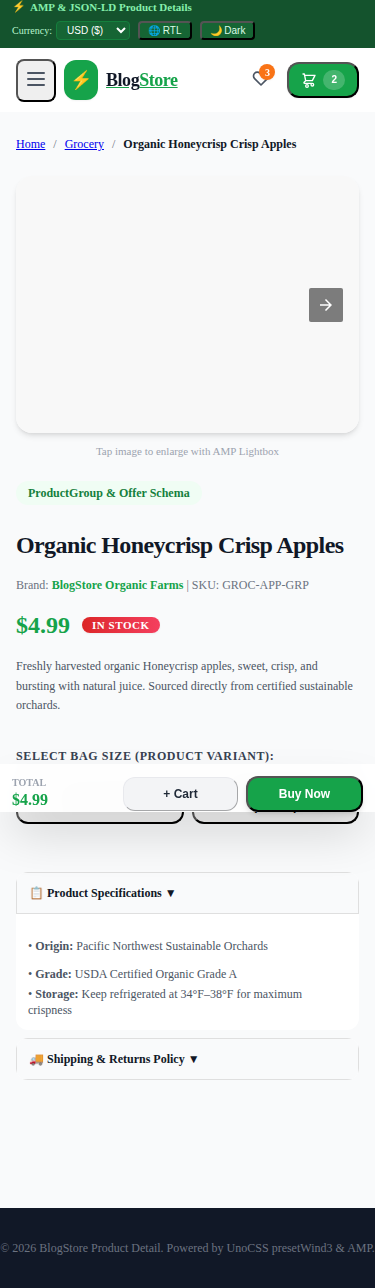
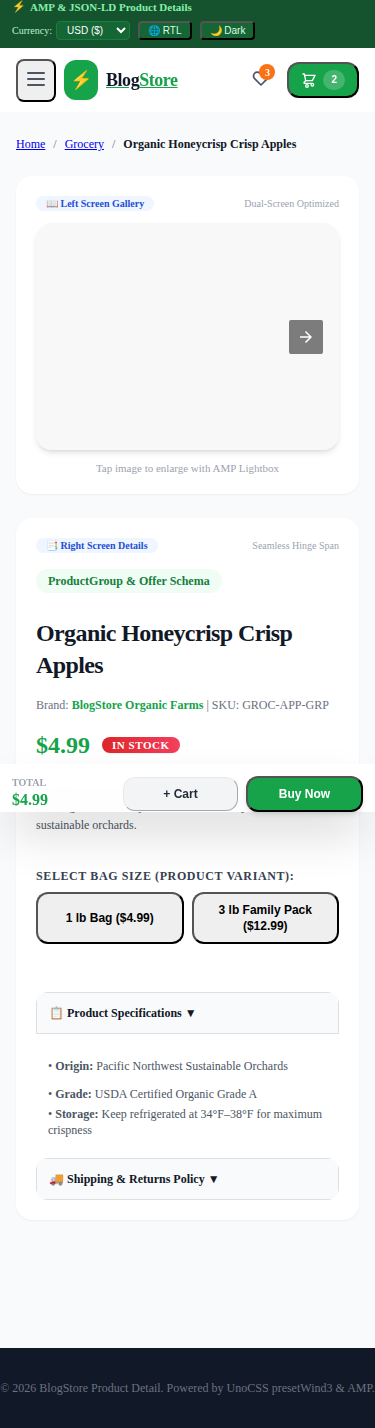
feat: enhance foldable device layouts and CSS styles across AMP store
- Add custom UnoCSS rules and shortcuts for dual-screen foldable viewports (`fold-split-grid`, `fold-pane`, `fold-badge`, `foldable-gap`)
- Enhance product detail and store pages with dual-pane split rendering and hinge gap handling
- Re-compile inline CSS via `scripts/build-css.js` and verify 100% AMP validation compliance
- Perform Playwright visual verification across desktop, mobile, and foldable viewports

diff --git a/product-detail.html b/product-detail.html
@@ -66,18 +66,29 @@
 *,::before,::after{--un-rotate:0;--un-rotate-x:0;--un-rotate-y:0;--un-rotate-z:0;--un-scale-x:1;--un-scale-y:1;--un-scale-z:1;--un-skew-x:0;--un-skew-y:0;--un-translate-x:0;--un-translate-y:0;--un-translate-z:0;--un-pan-x: ;--un-pan-y: ;--un-pinch-zoom: ;--un-scroll-snap-strictness:proximity;--un-ordinal: ;--un-slashed-zero: ;--un-numeric-figure: ;--un-numeric-spacing: ;--un-numeric-fraction: ;--un-border-spacing-x:0;--un-border-spacing-y:0;--un-ring-offset-shadow:0 0 rgb(0 0 0 / 0);--un-ring-shadow:0 0 rgb(0 0 0 / 0);--un-shadow-inset: ;--un-shadow:0 0 rgb(0 0 0 / 0);--un-ring-inset: ;--un-ring-offset-width:0px;--un-ring-offset-color:#fff;--un-ring-width:0px;--un-ring-color:rgb(147 197 253 / 0.5);--un-blur: ;--un-brightness: ;--un-contrast: ;--un-drop-shadow: ;--un-grayscale: ;--un-hue-rotate: ;--un-invert: ;--un-saturate: ;--un-sepia: ;--un-backdrop-blur: ;--un-backdrop-brightness: ;--un-backdrop-contrast: ;--un-backdrop-grayscale: ;--un-backdrop-hue-rotate: ;--un-backdrop-invert: ;--un-backdrop-opacity: ;--un-backdrop-saturate: ;--un-backdrop-sepia: ;}::backdrop{--un-rotate:0;--un-rotate-x:0;--un-rotate-y:0;--un-rotate-z:0;--un-scale-x:1;--un-scale-y:1;--un-scale-z:1;--un-skew-x:0;--un-skew-y:0;--un-translate-x:0;--un-translate-y:0;--un-translate-z:0;--un-pan-x: ;--un-pan-y: ;--un-pinch-zoom: ;--un-scroll-snap-strictness:proximity;--un-ordinal: ;--un-slashed-zero: ;--un-numeric-figure: ;--un-numeric-spacing: ;--un-numeric-fraction: ;--un-border-spacing-x:0;--un-border-spacing-y:0;--un-ring-offset-shadow:0 0 rgb(0 0 0 / 0);--un-ring-shadow:0 0 rgb(0 0 0 / 0);--un-shadow-inset: ;--un-shadow:0 0 rgb(0 0 0 / 0);--un-ring-inset: ;--un-ring-offset-width:0px;--un-ring-offset-color:#fff;--un-ring-width:0px;--un-ring-color:rgb(147 197 253 / 0.5);--un-blur: ;--un-brightness: ;--un-contrast: ;--un-drop-shadow: ;--un-grayscale: ;--un-hue-rotate: ;--un-invert: ;--un-saturate: ;--un-sepia: ;--un-backdrop-blur: ;--un-backdrop-brightness: ;--un-backdrop-contrast: ;--un-backdrop-grayscale: ;--un-backdrop-hue-rotate: ;--un-backdrop-invert: ;--un-backdrop-opacity: ;--un-backdrop-saturate: ;--un-backdrop-sepia: ;}
 /* layer: shortcuts */
 .glass-header{position:sticky;top:0;z-index:40;border-bottom-width:1px;border-color:rgb(229 231 235 / 0.6);background-color:rgb(255 255 255 / 0.9);--un-backdrop-blur:blur(12px);-webkit-backdrop-filter:var(--un-backdrop-blur) var(--un-backdrop-brightness) var(--un-backdrop-contrast) var(--un-backdrop-grayscale) var(--un-backdrop-hue-rotate) var(--un-backdrop-invert) var(--un-backdrop-opacity) var(--un-backdrop-saturate) var(--un-backdrop-sepia);backdrop-filter:var(--un-backdrop-blur) var(--un-backdrop-brightness) var(--un-backdrop-contrast) var(--un-backdrop-grayscale) var(--un-backdrop-hue-rotate) var(--un-backdrop-invert) var(--un-backdrop-opacity) var(--un-backdrop-saturate) var(--un-backdrop-sepia);transition-property:color,background-color,border-color,text-decoration-color,fill,stroke;transition-timing-function:cubic-bezier(0.4, 0, 0.2, 1);transition-duration:150ms;padding-top:env(safe-area-inset-top, 0px);}
+.fold-split-grid{display:grid;grid-template-columns:repeat(1,minmax(0,1fr));align-items:flex-start;gap:1.5rem;gap:max(1.5rem, env(viewport-segment-width 0 1, 0px));}
 .btn-primary{display:inline-flex;cursor:pointer;align-items:center;justify-content:center;border-radius:0.75rem;--un-bg-opacity:1;background-color:rgb(22 163 74 / var(--un-bg-opacity));padding-top:0.625rem;padding-bottom:0.625rem;padding-left:1.25rem;padding-right:1.25rem;--un-text-opacity:1;color:rgb(255 255 255 / var(--un-text-opacity));font-weight:600;--un-shadow:var(--un-shadow-inset) 0 1px 2px 0 var(--un-shadow-color, rgb(0 0 0 / 0.05));box-shadow:var(--un-ring-offset-shadow), var(--un-ring-shadow), var(--un-shadow);transition-property:all;transition-timing-function:cubic-bezier(0.4, 0, 0.2, 1);transition-duration:150ms;transition-duration:200ms;}
 .btn-secondary{display:inline-flex;cursor:pointer;align-items:center;justify-content:center;border-width:1px;border-color:rgb(229 231 235 / 0.8);border-radius:0.75rem;--un-bg-opacity:1;background-color:rgb(243 244 246 / var(--un-bg-opacity));padding-top:0.625rem;padding-bottom:0.625rem;padding-left:1.25rem;padding-right:1.25rem;--un-text-opacity:1;color:rgb(31 41 55 / var(--un-text-opacity));font-weight:500;transition-property:all;transition-timing-function:cubic-bezier(0.4, 0, 0.2, 1);transition-duration:150ms;transition-duration:200ms;}
-.btn-primary:active{--un-scale-x:0.95;--un-scale-y:0.95;transform:translateX(var(--un-translate-x)) translateY(var(--un-translate-y)) translateZ(var(--un-translate-z)) rotate(var(--un-rotate)) rotateX(var(--un-rotate-x)) rotateY(var(--un-rotate-y)) rotateZ(var(--un-rotate-z)) skewX(var(--un-skew-x)) skewY(var(--un-skew-y)) scaleX(var(--un-scale-x)) scaleY(var(--un-scale-y)) scaleZ(var(--un-scale-z));}
+.fold-badge{display:inline-flex;align-items:center;gap:0.25rem;border-width:1px;border-color:rgb(191 219 254 / 0.6);border-radius:9999px;--un-bg-opacity:1;background-color:rgb(239 246 255 / var(--un-bg-opacity));padding-left:0.625rem;padding-right:0.625rem;padding-top:0.125rem;padding-bottom:0.125rem;font-size:10px;--un-text-opacity:1;color:rgb(29 78 216 / var(--un-text-opacity));font-weight:700;}
+.btn-primary:active{--un-scale-x:0.95;--un-scale-y:0.95;transform:translateX(var(--un-translate-x)) translateY(var(--un-translate-y)) translateZ(var(--un-translate-z)) rotate(var(--un-rotate)) rotateX(var(--un-rotate-x)) rotateY(var(--un-rotate-y)) rotateZ(var(--un-rotate-z)) skewX(var(--un-skew-x)) skewY(var(--un-skew-y)) scaleX(var(--un-scale-x)) scaleY(var(--un-scale-y)) scaleZ(var(--un-scale-z));--un-bg-opacity:1;background-color:rgb(22 101 52 / var(--un-bg-opacity));}
 .btn-secondary:active{--un-scale-x:0.95;--un-scale-y:0.95;transform:translateX(var(--un-translate-x)) translateY(var(--un-translate-y)) translateZ(var(--un-translate-z)) rotate(var(--un-rotate)) rotateX(var(--un-rotate-x)) rotateY(var(--un-rotate-y)) rotateZ(var(--un-rotate-z)) skewX(var(--un-skew-x)) skewY(var(--un-skew-y)) scaleX(var(--un-scale-x)) scaleY(var(--un-scale-y)) scaleZ(var(--un-scale-z));}
 .badge-category{border-width:1px;border-color:rgb(187 247 208 / 0.6);border-radius:9999px;--un-bg-opacity:1;background-color:rgb(240 253 244 / var(--un-bg-opacity));padding-left:0.75rem;padding-right:0.75rem;padding-top:0.25rem;padding-bottom:0.25rem;font-size:0.75rem;line-height:1rem;--un-text-opacity:1;color:rgb(21 128 61 / var(--un-text-opacity));font-weight:600;}
+.fold-pane{border-width:1px;border-color:rgb(229 231 235 / 0.7);border-radius:1rem;--un-bg-opacity:1;background-color:rgb(255 255 255 / var(--un-bg-opacity));padding:1.25rem;--un-shadow:var(--un-shadow-inset) 0 1px 2px 0 var(--un-shadow-color, rgb(0 0 0 / 0.05));box-shadow:var(--un-ring-offset-shadow), var(--un-ring-shadow), var(--un-shadow);}
 .dark .badge-category{border-color:rgb(22 101 52 / 0.6);background-color:rgb(20 83 45 / 0.4);--un-text-opacity:1;color:rgb(134 239 172 / var(--un-text-opacity));}
 .dark .btn-secondary{border-color:rgb(55 65 81 / 0.8);--un-bg-opacity:1;background-color:rgb(31 41 55 / var(--un-bg-opacity));--un-text-opacity:1;color:rgb(243 244 246 / var(--un-text-opacity));}
+.dark .fold-badge{border-color:rgb(30 64 175 / 0.6);background-color:rgb(30 58 138 / 0.4);--un-text-opacity:1;color:rgb(147 197 253 / var(--un-text-opacity));}
+.dark .fold-pane{border-color:rgb(55 65 81 / 0.6);background-color:rgb(31 41 55 / 0.9);}
 .dark .glass-header{border-color:rgb(31 41 55 / 0.6);background-color:rgb(17 24 39 / 0.9);}
 .badge-sale{border-radius:9999px;--un-gradient-from-position:0%;--un-gradient-from:rgb(220 38 38 / var(--un-from-opacity, 1)) var(--un-gradient-from-position);--un-gradient-to-position:100%;--un-gradient-to:rgb(220 38 38 / 0) var(--un-gradient-to-position);--un-gradient-stops:var(--un-gradient-from), var(--un-gradient-to);--un-gradient-to:rgb(244 63 94 / var(--un-to-opacity, 1)) var(--un-gradient-to-position);--un-gradient-shape:to right in oklch;--un-gradient:var(--un-gradient-shape), var(--un-gradient-stops);background-image:linear-gradient(var(--un-gradient));padding-left:0.625rem;padding-right:0.625rem;padding-top:0.125rem;padding-bottom:0.125rem;font-size:11px;--un-text-opacity:1;color:rgb(255 255 255 / var(--un-text-opacity));font-weight:800;letter-spacing:0.05em;text-transform:uppercase;--un-shadow:var(--un-shadow-inset) 0 1px 2px 0 var(--un-shadow-color, rgb(0 0 0 / 0.05));box-shadow:var(--un-ring-offset-shadow), var(--un-ring-shadow), var(--un-shadow);}
 .btn-primary:hover{--un-bg-opacity:1;background-color:rgb(21 128 61 / var(--un-bg-opacity));--un-shadow:var(--un-shadow-inset) 0 4px 6px -1px var(--un-shadow-color, rgb(0 0 0 / 0.1)),var(--un-shadow-inset) 0 2px 4px -2px var(--un-shadow-color, rgb(0 0 0 / 0.1));box-shadow:var(--un-ring-offset-shadow), var(--un-ring-shadow), var(--un-shadow);}
 .btn-secondary:hover{--un-bg-opacity:1;background-color:rgb(229 231 235 / var(--un-bg-opacity));}
 .dark .btn-secondary:hover{--un-bg-opacity:1;background-color:rgb(55 65 81 / var(--un-bg-opacity));}
+@media (min-width: 640px){
+.fold-pane{padding:1.5rem;}
+}
+@media (min-width: 1024px){
+.fold-split-grid{grid-template-columns:repeat(2,minmax(0,1fr));}
+}
 /* layer: default */
 .absolute{position:absolute;}
 .fixed{position:fixed;}
@@ -92,9 +103,8 @@
 .top-4{top:1rem;}
 .z-40{z-index:40;}
 .z-50{z-index:50;}
-.grid{display:grid;}
-.grid-cols-1{grid-template-columns:repeat(1,minmax(0,1fr));}
 .mx-auto{margin-left:auto;margin-right:auto;}
+.mb-1{margin-bottom:0.25rem;}
 .mb-2{margin-bottom:0.5rem;}
 .mt-0\.5{margin-top:0.125rem;}
 .mt-1{margin-top:0.25rem;}
@@ -135,7 +145,6 @@
 .gap-1\.5{gap:0.375rem;}
 .gap-2{gap:0.5rem;}
 .gap-3{gap:0.75rem;}
-.gap-6{gap:1.5rem;}
 .space-y-1\.5>:not([hidden])~:not([hidden]){--un-space-y-reverse:0;margin-top:calc(0.375rem * calc(1 - var(--un-space-y-reverse)));margin-bottom:calc(0.375rem * var(--un-space-y-reverse));}
 .space-y-1>:not([hidden])~:not([hidden]){--un-space-y-reverse:0;margin-top:calc(0.25rem * calc(1 - var(--un-space-y-reverse)));margin-bottom:calc(0.25rem * var(--un-space-y-reverse));}
 .space-y-2\.5>:not([hidden])~:not([hidden]){--un-space-y-reverse:0;margin-top:calc(0.625rem * calc(1 - var(--un-space-y-reverse)));margin-bottom:calc(0.625rem * var(--un-space-y-reverse));}
@@ -256,6 +265,7 @@
 .font-black{font-weight:900;}
 .font-bold{font-weight:700;}
 .font-extrabold{font-weight:800;}
+.font-medium{font-weight:500;}
 .font-normal{font-weight:400;}
 .font-semibold{font-weight:600;}
 .leading-relaxed{line-height:1.625;}
@@ -280,7 +290,6 @@
 .safe-pb{padding-bottom:env(safe-area-inset-bottom, 0px);}
 .safe-pl{padding-left:env(safe-area-inset-left, 0px);}
 .safe-pr{padding-right:env(safe-area-inset-right, 0px);}
-.foldable-gap{gap:env(viewport-segment-width 0 0, 1.5rem);}
 @media (min-width: 640px){
 .sm\:mt-16{margin-top:4rem;}
 .sm\:inline{display:inline;}
@@ -295,7 +304,6 @@
 .sm\:flex-1{flex:1 1 0%;}
 .sm\:flex-none{flex:none;}
 .sm\:flex-row{flex-direction:row;}
-.sm\:gap-10{gap:2.5rem;}
 .sm\:gap-2{gap:0.5rem;}
 .sm\:gap-3{gap:0.75rem;}
 .sm\:gap-4{gap:1rem;}
@@ -323,7 +331,6 @@
 .md\:inline-block{display:inline-block;}
 }
 @media (min-width: 1024px){
-.lg\:grid-cols-2{grid-template-columns:repeat(2,minmax(0,1fr));}
 .lg\:hidden{display:none;}
 .lg\:px-8{padding-left:2rem;padding-right:2rem;}
 }
@@ -542,10 +549,14 @@
     </nav>
 
     <!-- FOLDABLE SPLIT GRID: Left Image Gallery, Right Details -->
-    <div class="grid grid-cols-1 lg:grid-cols-2 gap-6 sm:gap-10 foldable-gap">
+    <div class="fold-split-grid">
 
       <!-- Carousel Gallery (Left Screen on Foldables) -->
-      <div class="space-y-3">
+      <div class="fold-pane space-y-3">
+        <div class="flex items-center justify-between mb-1">
+          <span class="fold-badge">📖 Left Screen Gallery</span>
+          <span class="text-[10px] text-gray-400 font-medium">Dual-Screen Optimized</span>
+        </div>
         <amp-carousel width="600" height="450" layout="responsive" type="slides" controls class="rounded-2xl shadow-md border border-gray-200 dark:border-gray-700 overflow-hidden">
           <amp-img src="https://images.unsplash.com/photo-1560806887-1e4cd0b6cbd6?w=800&auto=format&fit=crop&q=80" width="600" height="450" layout="responsive" class="object-cover" on="tap:lightbox-image" role="button" tabindex="0"></amp-img>
           <amp-img src="https://images.unsplash.com/photo-1619546813926-a78fa6372cd2?w=800&auto=format&fit=crop&q=80" width="600" height="450" layout="responsive" class="object-cover" on="tap:lightbox-image" role="button" tabindex="0"></amp-img>
@@ -554,7 +565,11 @@
       </div>
 
       <!-- Info & Actions (Right Screen on Foldables) -->
-      <div class="space-y-4 sm:space-y-6">
+      <div class="fold-pane space-y-4 sm:space-y-6">
+        <div class="flex items-center justify-between">
+          <span class="fold-badge">📑 Right Screen Details</span>
+          <span class="text-[10px] text-gray-400 font-medium">Seamless Hinge Span</span>
+        </div>
         <div>
           <span class="badge-category mb-2 inline-block">ProductGroup & Offer Schema</span>
           <h1 class="text-2xl sm:text-3xl font-extrabold tracking-tight text-gray-900 dark:text-white">Organic Honeycrisp Crisp Apples</h1>

diff --git a/index.html b/index.html
@@ -58,9 +58,9 @@
 .btn-primary{display:inline-flex;cursor:pointer;align-items:center;justify-content:center;border-radius:0.75rem;--un-bg-opacity:1;background-color:rgb(22 163 74 / var(--un-bg-opacity));padding-top:0.625rem;padding-bottom:0.625rem;padding-left:1.25rem;padding-right:1.25rem;--un-text-opacity:1;color:rgb(255 255 255 / var(--un-text-opacity));font-weight:600;--un-shadow:var(--un-shadow-inset) 0 1px 2px 0 var(--un-shadow-color, rgb(0 0 0 / 0.05));box-shadow:var(--un-ring-offset-shadow), var(--un-ring-shadow), var(--un-shadow);transition-property:all;transition-timing-function:cubic-bezier(0.4, 0, 0.2, 1);transition-duration:150ms;transition-duration:200ms;}
 .btn-secondary{display:inline-flex;cursor:pointer;align-items:center;justify-content:center;border-width:1px;border-color:rgb(229 231 235 / 0.8);border-radius:0.75rem;--un-bg-opacity:1;background-color:rgb(243 244 246 / var(--un-bg-opacity));padding-top:0.625rem;padding-bottom:0.625rem;padding-left:1.25rem;padding-right:1.25rem;--un-text-opacity:1;color:rgb(31 41 55 / var(--un-text-opacity));font-weight:500;transition-property:all;transition-timing-function:cubic-bezier(0.4, 0, 0.2, 1);transition-duration:150ms;transition-duration:200ms;}
 .card-base:hover{--un-translate-y:-0.25rem;transform:translateX(var(--un-translate-x)) translateY(var(--un-translate-y)) translateZ(var(--un-translate-z)) rotate(var(--un-rotate)) rotateX(var(--un-rotate-x)) rotateY(var(--un-rotate-y)) rotateZ(var(--un-rotate-z)) skewX(var(--un-skew-x)) skewY(var(--un-skew-y)) scaleX(var(--un-scale-x)) scaleY(var(--un-scale-y)) scaleZ(var(--un-scale-z));--un-shadow:var(--un-shadow-inset) 0 20px 25px -5px var(--un-shadow-color, rgb(0 0 0 / 0.1)),var(--un-shadow-inset) 0 8px 10px -6px var(--un-shadow-color, rgb(0 0 0 / 0.1));box-shadow:var(--un-ring-offset-shadow), var(--un-ring-shadow), var(--un-shadow);}
-.btn-primary:active{--un-scale-x:0.95;--un-scale-y:0.95;transform:translateX(var(--un-translate-x)) translateY(var(--un-translate-y)) translateZ(var(--un-translate-z)) rotate(var(--un-rotate)) rotateX(var(--un-rotate-x)) rotateY(var(--un-rotate-y)) rotateZ(var(--un-rotate-z)) skewX(var(--un-skew-x)) skewY(var(--un-skew-y)) scaleX(var(--un-scale-x)) scaleY(var(--un-scale-y)) scaleZ(var(--un-scale-z));}
+.btn-primary:active{--un-scale-x:0.95;--un-scale-y:0.95;transform:translateX(var(--un-translate-x)) translateY(var(--un-translate-y)) translateZ(var(--un-translate-z)) rotate(var(--un-rotate)) rotateX(var(--un-rotate-x)) rotateY(var(--un-rotate-y)) rotateZ(var(--un-rotate-z)) skewX(var(--un-skew-x)) skewY(var(--un-skew-y)) scaleX(var(--un-scale-x)) scaleY(var(--un-scale-y)) scaleZ(var(--un-scale-z));--un-bg-opacity:1;background-color:rgb(22 101 52 / var(--un-bg-opacity));}
 .btn-secondary:active{--un-scale-x:0.95;--un-scale-y:0.95;transform:translateX(var(--un-translate-x)) translateY(var(--un-translate-y)) translateZ(var(--un-translate-z)) rotate(var(--un-rotate)) rotateX(var(--un-rotate-x)) rotateY(var(--un-rotate-y)) rotateZ(var(--un-rotate-z)) skewX(var(--un-skew-x)) skewY(var(--un-skew-y)) scaleX(var(--un-scale-x)) scaleY(var(--un-scale-y)) scaleZ(var(--un-scale-z));}
-.card-base{overflow:hidden;border-width:1px;--un-border-opacity:1;border-color:rgb(243 244 246 / var(--un-border-opacity));border-radius:1rem;--un-bg-opacity:1;background-color:rgb(255 255 255 / var(--un-bg-opacity));--un-shadow:var(--un-shadow-inset) 0 1px 2px 0 var(--un-shadow-color, rgb(0 0 0 / 0.05));box-shadow:var(--un-ring-offset-shadow), var(--un-ring-shadow), var(--un-shadow);transition-property:all;transition-timing-function:cubic-bezier(0.4, 0, 0.2, 1);transition-duration:150ms;transition-duration:300ms;}
+.card-base{overflow:hidden;border-width:1px;border-color:rgb(229 231 235 / 0.7);border-radius:1rem;--un-bg-opacity:1;background-color:rgb(255 255 255 / var(--un-bg-opacity));--un-shadow:var(--un-shadow-inset) 0 1px 2px 0 var(--un-shadow-color, rgb(0 0 0 / 0.05));box-shadow:var(--un-ring-offset-shadow), var(--un-ring-shadow), var(--un-shadow);transition-property:all;transition-timing-function:cubic-bezier(0.4, 0, 0.2, 1);transition-duration:150ms;transition-duration:300ms;}
 .nav-pill{white-space:nowrap;border-width:1px;border-color:transparent;border-radius:9999px;padding-left:1rem;padding-right:1rem;padding-top:0.5rem;padding-bottom:0.5rem;font-size:0.875rem;line-height:1.25rem;--un-text-opacity:1;color:rgb(75 85 99 / var(--un-text-opacity));font-weight:500;transition-property:all;transition-timing-function:cubic-bezier(0.4, 0, 0.2, 1);transition-duration:150ms;transition-duration:200ms;}
 .nav-pill-active{white-space:nowrap;border-radius:9999px;--un-bg-opacity:1;background-color:rgb(22 163 74 / var(--un-bg-opacity));padding-left:1rem;padding-right:1rem;padding-top:0.5rem;padding-bottom:0.5rem;font-size:0.875rem;line-height:1.25rem;--un-text-opacity:1;color:rgb(255 255 255 / var(--un-text-opacity));font-weight:600;--un-shadow:var(--un-shadow-inset) 0 1px 2px 0 var(--un-shadow-color, rgb(0 0 0 / 0.05));box-shadow:var(--un-ring-offset-shadow), var(--un-ring-shadow), var(--un-shadow);}
 .badge-category{border-width:1px;border-color:rgb(187 247 208 / 0.6);border-radius:9999px;--un-bg-opacity:1;background-color:rgb(240 253 244 / var(--un-bg-opacity));padding-left:0.75rem;padding-right:0.75rem;padding-top:0.25rem;padding-bottom:0.25rem;font-size:0.75rem;line-height:1rem;--un-text-opacity:1;color:rgb(21 128 61 / var(--un-text-opacity));font-weight:600;}

diff --git a/wishlist.html b/wishlist.html
@@ -22,9 +22,9 @@
 .btn-primary{display:inline-flex;cursor:pointer;align-items:center;justify-content:center;border-radius:0.75rem;--un-bg-opacity:1;background-color:rgb(22 163 74 / var(--un-bg-opacity));padding-top:0.625rem;padding-bottom:0.625rem;padding-left:1.25rem;padding-right:1.25rem;--un-text-opacity:1;color:rgb(255 255 255 / var(--un-text-opacity));font-weight:600;--un-shadow:var(--un-shadow-inset) 0 1px 2px 0 var(--un-shadow-color, rgb(0 0 0 / 0.05));box-shadow:var(--un-ring-offset-shadow), var(--un-ring-shadow), var(--un-shadow);transition-property:all;transition-timing-function:cubic-bezier(0.4, 0, 0.2, 1);transition-duration:150ms;transition-duration:200ms;}
 .btn-secondary{display:inline-flex;cursor:pointer;align-items:center;justify-content:center;border-width:1px;border-color:rgb(229 231 235 / 0.8);border-radius:0.75rem;--un-bg-opacity:1;background-color:rgb(243 244 246 / var(--un-bg-opacity));padding-top:0.625rem;padding-bottom:0.625rem;padding-left:1.25rem;padding-right:1.25rem;--un-text-opacity:1;color:rgb(31 41 55 / var(--un-text-opacity));font-weight:500;transition-property:all;transition-timing-function:cubic-bezier(0.4, 0, 0.2, 1);transition-duration:150ms;transition-duration:200ms;}
 .card-base:hover{--un-translate-y:-0.25rem;transform:translateX(var(--un-translate-x)) translateY(var(--un-translate-y)) translateZ(var(--un-translate-z)) rotate(var(--un-rotate)) rotateX(var(--un-rotate-x)) rotateY(var(--un-rotate-y)) rotateZ(var(--un-rotate-z)) skewX(var(--un-skew-x)) skewY(var(--un-skew-y)) scaleX(var(--un-scale-x)) scaleY(var(--un-scale-y)) scaleZ(var(--un-scale-z));--un-shadow:var(--un-shadow-inset) 0 20px 25px -5px var(--un-shadow-color, rgb(0 0 0 / 0.1)),var(--un-shadow-inset) 0 8px 10px -6px var(--un-shadow-color, rgb(0 0 0 / 0.1));box-shadow:var(--un-ring-offset-shadow), var(--un-ring-shadow), var(--un-shadow);}
-.btn-primary:active{--un-scale-x:0.95;--un-scale-y:0.95;transform:translateX(var(--un-translate-x)) translateY(var(--un-translate-y)) translateZ(var(--un-translate-z)) rotate(var(--un-rotate)) rotateX(var(--un-rotate-x)) rotateY(var(--un-rotate-y)) rotateZ(var(--un-rotate-z)) skewX(var(--un-skew-x)) skewY(var(--un-skew-y)) scaleX(var(--un-scale-x)) scaleY(var(--un-scale-y)) scaleZ(var(--un-scale-z));}
+.btn-primary:active{--un-scale-x:0.95;--un-scale-y:0.95;transform:translateX(var(--un-translate-x)) translateY(var(--un-translate-y)) translateZ(var(--un-translate-z)) rotate(var(--un-rotate)) rotateX(var(--un-rotate-x)) rotateY(var(--un-rotate-y)) rotateZ(var(--un-rotate-z)) skewX(var(--un-skew-x)) skewY(var(--un-skew-y)) scaleX(var(--un-scale-x)) scaleY(var(--un-scale-y)) scaleZ(var(--un-scale-z));--un-bg-opacity:1;background-color:rgb(22 101 52 / var(--un-bg-opacity));}
 .btn-secondary:active{--un-scale-x:0.95;--un-scale-y:0.95;transform:translateX(var(--un-translate-x)) translateY(var(--un-translate-y)) translateZ(var(--un-translate-z)) rotate(var(--un-rotate)) rotateX(var(--un-rotate-x)) rotateY(var(--un-rotate-y)) rotateZ(var(--un-rotate-z)) skewX(var(--un-skew-x)) skewY(var(--un-skew-y)) scaleX(var(--un-scale-x)) scaleY(var(--un-scale-y)) scaleZ(var(--un-scale-z));}
-.card-base{overflow:hidden;border-width:1px;--un-border-opacity:1;border-color:rgb(243 244 246 / var(--un-border-opacity));border-radius:1rem;--un-bg-opacity:1;background-color:rgb(255 255 255 / var(--un-bg-opacity));--un-shadow:var(--un-shadow-inset) 0 1px 2px 0 var(--un-shadow-color, rgb(0 0 0 / 0.05));box-shadow:var(--un-ring-offset-shadow), var(--un-ring-shadow), var(--un-shadow);transition-property:all;transition-timing-function:cubic-bezier(0.4, 0, 0.2, 1);transition-duration:150ms;transition-duration:300ms;}
+.card-base{overflow:hidden;border-width:1px;border-color:rgb(229 231 235 / 0.7);border-radius:1rem;--un-bg-opacity:1;background-color:rgb(255 255 255 / var(--un-bg-opacity));--un-shadow:var(--un-shadow-inset) 0 1px 2px 0 var(--un-shadow-color, rgb(0 0 0 / 0.05));box-shadow:var(--un-ring-offset-shadow), var(--un-ring-shadow), var(--un-shadow);transition-property:all;transition-timing-function:cubic-bezier(0.4, 0, 0.2, 1);transition-duration:150ms;transition-duration:300ms;}
 .badge-category{border-width:1px;border-color:rgb(187 247 208 / 0.6);border-radius:9999px;--un-bg-opacity:1;background-color:rgb(240 253 244 / var(--un-bg-opacity));padding-left:0.75rem;padding-right:0.75rem;padding-top:0.25rem;padding-bottom:0.25rem;font-size:0.75rem;line-height:1rem;--un-text-opacity:1;color:rgb(21 128 61 / var(--un-text-opacity));font-weight:600;}
 .dark .badge-category{border-color:rgb(22 101 52 / 0.6);background-color:rgb(20 83 45 / 0.4);--un-text-opacity:1;color:rgb(134 239 172 / var(--un-text-opacity));}
 .dark .btn-secondary{border-color:rgb(55 65 81 / 0.8);--un-bg-opacity:1;background-color:rgb(31 41 55 / var(--un-bg-opacity));--un-text-opacity:1;color:rgb(243 244 246 / var(--un-text-opacity));}

diff --git a/uno.config.js b/uno.config.js
@@ -33,18 +33,25 @@ export default defineConfig({
     ['safe-pr', { 'padding-right': 'env(safe-area-inset-right, 0px)' }],
     ['safe-mt', { 'margin-top': 'env(safe-area-inset-top, 0px)' }],
     ['safe-mb', { 'margin-bottom': 'env(safe-area-inset-bottom, 0px)' }],
-    ['foldable-gap', { 'gap': 'env(viewport-segment-width 0 0, 1.5rem)' }],
+    ['foldable-gap', { 'gap': 'max(1.5rem, env(viewport-segment-width 0 1, 0px))' }],
+    ['fold-hinge-margin', { 'margin-right': 'env(viewport-segment-width 0 0, 0px)' }],
+    ['fold-pane-width', { 'width': 'env(viewport-segment-width 0 0, 100%)' }],
+    ['glass-border', { 'border-color': 'rgba(255, 255, 255, 0.15)' }],
+    ['text-shadow-sm', { 'text-shadow': '0 1px 2px rgba(0,0,0,0.1)' }],
   ],
   shortcuts: {
-    'btn-primary': 'bg-green-600 hover:bg-green-700 text-white font-semibold py-2.5 px-5 rounded-xl transition-all duration-200 cursor-pointer inline-flex items-center justify-center shadow-sm hover:shadow-md active:scale-95',
+    'btn-primary': 'bg-green-600 hover:bg-green-700 active:bg-green-800 text-white font-semibold py-2.5 px-5 rounded-xl transition-all duration-200 cursor-pointer inline-flex items-center justify-center shadow-sm hover:shadow-md active:scale-95',
     'btn-secondary': 'bg-gray-100 dark:bg-gray-800 hover:bg-gray-200 dark:hover:bg-gray-700 text-gray-800 dark:text-gray-100 font-medium py-2.5 px-5 rounded-xl transition-all duration-200 cursor-pointer inline-flex items-center justify-center border border-gray-200/80 dark:border-gray-700/80 active:scale-95',
     'btn-outline': 'border-2 border-green-600 text-green-600 dark:text-green-400 hover:bg-green-50 dark:hover:bg-green-950/40 font-semibold py-2 px-4 rounded-xl transition-all cursor-pointer inline-flex items-center justify-center',
-    'card-base': 'bg-white dark:bg-gray-800/90 border border-gray-100 dark:border-gray-700/60 rounded-2xl overflow-hidden shadow-sm hover:shadow-xl transition-all duration-300 hover:-translate-y-1',
+    'card-base': 'bg-white dark:bg-gray-800/90 border border-gray-200/70 dark:border-gray-700/60 rounded-2xl overflow-hidden shadow-sm hover:shadow-xl transition-all duration-300 hover:-translate-y-1',
     'glass-header': 'bg-white/90 dark:bg-gray-900/90 backdrop-blur-md border-b border-gray-200/60 dark:border-gray-800/60 sticky top-0 z-40 transition-colors safe-pt',
     'badge-sale': 'bg-gradient-to-r from-red-600 to-rose-500 text-white text-[11px] font-extrabold px-2.5 py-0.5 rounded-full uppercase tracking-wider shadow-sm',
     'badge-category': 'bg-green-50 dark:bg-green-900/40 text-green-700 dark:text-green-300 border border-green-200/60 dark:border-green-800/60 text-xs font-semibold px-3 py-1 rounded-full',
     'nav-pill': 'whitespace-nowrap px-4 py-2 rounded-full text-sm font-medium transition-all duration-200 border border-transparent hover:border-gray-200 dark:hover:border-gray-700 hover:bg-gray-100/80 dark:hover:bg-gray-800/80 text-gray-600 dark:text-gray-300',
     'nav-pill-active': 'whitespace-nowrap px-4 py-2 rounded-full text-sm font-semibold bg-green-600 text-white shadow-sm',
-    'trust-card': 'flex items-center gap-3.5 p-4 rounded-2xl bg-gray-50/80 dark:bg-gray-800/50 border border-gray-200/60 dark:border-gray-700/50 hover:bg-white dark:hover:bg-gray-800 transition-all duration-200 shadow-sm'
+    'trust-card': 'flex items-center gap-3.5 p-4 rounded-2xl bg-gray-50/80 dark:bg-gray-800/50 border border-gray-200/60 dark:border-gray-700/50 hover:bg-white dark:hover:bg-gray-800 transition-all duration-200 shadow-sm',
+    'fold-split-grid': 'grid grid-cols-1 lg:grid-cols-2 gap-6 foldable-gap items-start',
+    'fold-pane': 'bg-white dark:bg-gray-800/90 rounded-2xl p-5 sm:p-6 border border-gray-200/70 dark:border-gray-700/60 shadow-sm',
+    'fold-badge': 'bg-blue-50 dark:bg-blue-900/40 text-blue-700 dark:text-blue-300 border border-blue-200/60 dark:border-blue-800/60 text-[10px] font-bold px-2.5 py-0.5 rounded-full inline-flex items-center gap-1',
   }
 })

diff --git a/products.html b/products.html
@@ -46,8 +46,8 @@
 /* layer: shortcuts */
 .btn-primary{display:inline-flex;cursor:pointer;align-items:center;justify-content:center;border-radius:0.75rem;--un-bg-opacity:1;background-color:rgb(22 163 74 / var(--un-bg-opacity));padding-top:0.625rem;padding-bottom:0.625rem;padding-left:1.25rem;padding-right:1.25rem;--un-text-opacity:1;color:rgb(255 255 255 / var(--un-text-opacity));font-weight:600;--un-shadow:var(--un-shadow-inset) 0 1px 2px 0 var(--un-shadow-color, rgb(0 0 0 / 0.05));box-shadow:var(--un-ring-offset-shadow), var(--un-ring-shadow), var(--un-shadow);transition-property:all;transition-timing-function:cubic-bezier(0.4, 0, 0.2, 1);transition-duration:150ms;transition-duration:200ms;}
 .card-base:hover{--un-translate-y:-0.25rem;transform:translateX(var(--un-translate-x)) translateY(var(--un-translate-y)) translateZ(var(--un-translate-z)) rotate(var(--un-rotate)) rotateX(var(--un-rotate-x)) rotateY(var(--un-rotate-y)) rotateZ(var(--un-rotate-z)) skewX(var(--un-skew-x)) skewY(var(--un-skew-y)) scaleX(var(--un-scale-x)) scaleY(var(--un-scale-y)) scaleZ(var(--un-scale-z));--un-shadow:var(--un-shadow-inset) 0 20px 25px -5px var(--un-shadow-color, rgb(0 0 0 / 0.1)),var(--un-shadow-inset) 0 8px 10px -6px var(--un-shadow-color, rgb(0 0 0 / 0.1));box-shadow:var(--un-ring-offset-shadow), var(--un-ring-shadow), var(--un-shadow);}
-.btn-primary:active{--un-scale-x:0.95;--un-scale-y:0.95;transform:translateX(var(--un-translate-x)) translateY(var(--un-translate-y)) translateZ(var(--un-translate-z)) rotate(var(--un-rotate)) rotateX(var(--un-rotate-x)) rotateY(var(--un-rotate-y)) rotateZ(var(--un-rotate-z)) skewX(var(--un-skew-x)) skewY(var(--un-skew-y)) scaleX(var(--un-scale-x)) scaleY(var(--un-scale-y)) scaleZ(var(--un-scale-z));}
-.card-base{overflow:hidden;border-width:1px;--un-border-opacity:1;border-color:rgb(243 244 246 / var(--un-border-opacity));border-radius:1rem;--un-bg-opacity:1;background-color:rgb(255 255 255 / var(--un-bg-opacity));--un-shadow:var(--un-shadow-inset) 0 1px 2px 0 var(--un-shadow-color, rgb(0 0 0 / 0.05));box-shadow:var(--un-ring-offset-shadow), var(--un-ring-shadow), var(--un-shadow);transition-property:all;transition-timing-function:cubic-bezier(0.4, 0, 0.2, 1);transition-duration:150ms;transition-duration:300ms;}
+.btn-primary:active{--un-scale-x:0.95;--un-scale-y:0.95;transform:translateX(var(--un-translate-x)) translateY(var(--un-translate-y)) translateZ(var(--un-translate-z)) rotate(var(--un-rotate)) rotateX(var(--un-rotate-x)) rotateY(var(--un-rotate-y)) rotateZ(var(--un-rotate-z)) skewX(var(--un-skew-x)) skewY(var(--un-skew-y)) scaleX(var(--un-scale-x)) scaleY(var(--un-scale-y)) scaleZ(var(--un-scale-z));--un-bg-opacity:1;background-color:rgb(22 101 52 / var(--un-bg-opacity));}
+.card-base{overflow:hidden;border-width:1px;border-color:rgb(229 231 235 / 0.7);border-radius:1rem;--un-bg-opacity:1;background-color:rgb(255 255 255 / var(--un-bg-opacity));--un-shadow:var(--un-shadow-inset) 0 1px 2px 0 var(--un-shadow-color, rgb(0 0 0 / 0.05));box-shadow:var(--un-ring-offset-shadow), var(--un-ring-shadow), var(--un-shadow);transition-property:all;transition-timing-function:cubic-bezier(0.4, 0, 0.2, 1);transition-duration:150ms;transition-duration:300ms;}
 .badge-category{border-width:1px;border-color:rgb(187 247 208 / 0.6);border-radius:9999px;--un-bg-opacity:1;background-color:rgb(240 253 244 / var(--un-bg-opacity));padding-left:0.75rem;padding-right:0.75rem;padding-top:0.25rem;padding-bottom:0.25rem;font-size:0.75rem;line-height:1rem;--un-text-opacity:1;color:rgb(21 128 61 / var(--un-text-opacity));font-weight:600;}
 .dark .badge-category{border-color:rgb(22 101 52 / 0.6);background-color:rgb(20 83 45 / 0.4);--un-text-opacity:1;color:rgb(134 239 172 / var(--un-text-opacity));}
 .dark .card-base{border-color:rgb(55 65 81 / 0.6);background-color:rgb(31 41 55 / 0.9);}

diff --git a/schema-explorer.html b/schema-explorer.html
@@ -51,7 +51,7 @@
 .btn-secondary{display:inline-flex;cursor:pointer;align-items:center;justify-content:center;border-width:1px;border-color:rgb(229 231 235 / 0.8);border-radius:0.75rem;--un-bg-opacity:1;background-color:rgb(243 244 246 / var(--un-bg-opacity));padding-top:0.625rem;padding-bottom:0.625rem;padding-left:1.25rem;padding-right:1.25rem;--un-text-opacity:1;color:rgb(31 41 55 / var(--un-text-opacity));font-weight:500;transition-property:all;transition-timing-function:cubic-bezier(0.4, 0, 0.2, 1);transition-duration:150ms;transition-duration:200ms;}
 .card-base:hover{--un-translate-y:-0.25rem;transform:translateX(var(--un-translate-x)) translateY(var(--un-translate-y)) translateZ(var(--un-translate-z)) rotate(var(--un-rotate)) rotateX(var(--un-rotate-x)) rotateY(var(--un-rotate-y)) rotateZ(var(--un-rotate-z)) skewX(var(--un-skew-x)) skewY(var(--un-skew-y)) scaleX(var(--un-scale-x)) scaleY(var(--un-scale-y)) scaleZ(var(--un-scale-z));--un-shadow:var(--un-shadow-inset) 0 20px 25px -5px var(--un-shadow-color, rgb(0 0 0 / 0.1)),var(--un-shadow-inset) 0 8px 10px -6px var(--un-shadow-color, rgb(0 0 0 / 0.1));box-shadow:var(--un-ring-offset-shadow), var(--un-ring-shadow), var(--un-shadow);}
 .btn-secondary:active{--un-scale-x:0.95;--un-scale-y:0.95;transform:translateX(var(--un-translate-x)) translateY(var(--un-translate-y)) translateZ(var(--un-translate-z)) rotate(var(--un-rotate)) rotateX(var(--un-rotate-x)) rotateY(var(--un-rotate-y)) rotateZ(var(--un-rotate-z)) skewX(var(--un-skew-x)) skewY(var(--un-skew-y)) scaleX(var(--un-scale-x)) scaleY(var(--un-scale-y)) scaleZ(var(--un-scale-z));}
-.card-base{overflow:hidden;border-width:1px;--un-border-opacity:1;border-color:rgb(243 244 246 / var(--un-border-opacity));border-radius:1rem;--un-bg-opacity:1;background-color:rgb(255 255 255 / var(--un-bg-opacity));--un-shadow:var(--un-shadow-inset) 0 1px 2px 0 var(--un-shadow-color, rgb(0 0 0 / 0.05));box-shadow:var(--un-ring-offset-shadow), var(--un-ring-shadow), var(--un-shadow);transition-property:all;transition-timing-function:cubic-bezier(0.4, 0, 0.2, 1);transition-duration:150ms;transition-duration:300ms;}
+.card-base{overflow:hidden;border-width:1px;border-color:rgb(229 231 235 / 0.7);border-radius:1rem;--un-bg-opacity:1;background-color:rgb(255 255 255 / var(--un-bg-opacity));--un-shadow:var(--un-shadow-inset) 0 1px 2px 0 var(--un-shadow-color, rgb(0 0 0 / 0.05));box-shadow:var(--un-ring-offset-shadow), var(--un-ring-shadow), var(--un-shadow);transition-property:all;transition-timing-function:cubic-bezier(0.4, 0, 0.2, 1);transition-duration:150ms;transition-duration:300ms;}
 .badge-category{border-width:1px;border-color:rgb(187 247 208 / 0.6);border-radius:9999px;--un-bg-opacity:1;background-color:rgb(240 253 244 / var(--un-bg-opacity));padding-left:0.75rem;padding-right:0.75rem;padding-top:0.25rem;padding-bottom:0.25rem;font-size:0.75rem;line-height:1rem;--un-text-opacity:1;color:rgb(21 128 61 / var(--un-text-opacity));font-weight:600;}
 .dark .badge-category{border-color:rgb(22 101 52 / 0.6);background-color:rgb(20 83 45 / 0.4);--un-text-opacity:1;color:rgb(134 239 172 / var(--un-text-opacity));}
 .dark .btn-secondary{border-color:rgb(55 65 81 / 0.8);--un-bg-opacity:1;background-color:rgb(31 41 55 / var(--un-bg-opacity));--un-text-opacity:1;color:rgb(243 244 246 / var(--un-text-opacity));}

diff --git a/categories.html b/categories.html
@@ -21,7 +21,7 @@
 .btn-secondary{display:inline-flex;cursor:pointer;align-items:center;justify-content:center;border-width:1px;border-color:rgb(229 231 235 / 0.8);border-radius:0.75rem;--un-bg-opacity:1;background-color:rgb(243 244 246 / var(--un-bg-opacity));padding-top:0.625rem;padding-bottom:0.625rem;padding-left:1.25rem;padding-right:1.25rem;--un-text-opacity:1;color:rgb(31 41 55 / var(--un-text-opacity));font-weight:500;transition-property:all;transition-timing-function:cubic-bezier(0.4, 0, 0.2, 1);transition-duration:150ms;transition-duration:200ms;}
 .card-base:hover{--un-translate-y:-0.25rem;transform:translateX(var(--un-translate-x)) translateY(var(--un-translate-y)) translateZ(var(--un-translate-z)) rotate(var(--un-rotate)) rotateX(var(--un-rotate-x)) rotateY(var(--un-rotate-y)) rotateZ(var(--un-rotate-z)) skewX(var(--un-skew-x)) skewY(var(--un-skew-y)) scaleX(var(--un-scale-x)) scaleY(var(--un-scale-y)) scaleZ(var(--un-scale-z));--un-shadow:var(--un-shadow-inset) 0 20px 25px -5px var(--un-shadow-color, rgb(0 0 0 / 0.1)),var(--un-shadow-inset) 0 8px 10px -6px var(--un-shadow-color, rgb(0 0 0 / 0.1));box-shadow:var(--un-ring-offset-shadow), var(--un-ring-shadow), var(--un-shadow);}
 .btn-secondary:active{--un-scale-x:0.95;--un-scale-y:0.95;transform:translateX(var(--un-translate-x)) translateY(var(--un-translate-y)) translateZ(var(--un-translate-z)) rotate(var(--un-rotate)) rotateX(var(--un-rotate-x)) rotateY(var(--un-rotate-y)) rotateZ(var(--un-rotate-z)) skewX(var(--un-skew-x)) skewY(var(--un-skew-y)) scaleX(var(--un-scale-x)) scaleY(var(--un-scale-y)) scaleZ(var(--un-scale-z));}
-.card-base{overflow:hidden;border-width:1px;--un-border-opacity:1;border-color:rgb(243 244 246 / var(--un-border-opacity));border-radius:1rem;--un-bg-opacity:1;background-color:rgb(255 255 255 / var(--un-bg-opacity));--un-shadow:var(--un-shadow-inset) 0 1px 2px 0 var(--un-shadow-color, rgb(0 0 0 / 0.05));box-shadow:var(--un-ring-offset-shadow), var(--un-ring-shadow), var(--un-shadow);transition-property:all;transition-timing-function:cubic-bezier(0.4, 0, 0.2, 1);transition-duration:150ms;transition-duration:300ms;}
+.card-base{overflow:hidden;border-width:1px;border-color:rgb(229 231 235 / 0.7);border-radius:1rem;--un-bg-opacity:1;background-color:rgb(255 255 255 / var(--un-bg-opacity));--un-shadow:var(--un-shadow-inset) 0 1px 2px 0 var(--un-shadow-color, rgb(0 0 0 / 0.05));box-shadow:var(--un-ring-offset-shadow), var(--un-ring-shadow), var(--un-shadow);transition-property:all;transition-timing-function:cubic-bezier(0.4, 0, 0.2, 1);transition-duration:150ms;transition-duration:300ms;}
 .dark .btn-secondary{border-color:rgb(55 65 81 / 0.8);--un-bg-opacity:1;background-color:rgb(31 41 55 / var(--un-bg-opacity));--un-text-opacity:1;color:rgb(243 244 246 / var(--un-text-opacity));}
 .dark .card-base{border-color:rgb(55 65 81 / 0.6);background-color:rgb(31 41 55 / 0.9);}
 .btn-secondary:hover{--un-bg-opacity:1;background-color:rgb(229 231 235 / var(--un-bg-opacity));}

diff --git a/faq.html b/faq.html
@@ -48,7 +48,7 @@
 .btn-secondary{display:inline-flex;cursor:pointer;align-items:center;justify-content:center;border-width:1px;border-color:rgb(229 231 235 / 0.8);border-radius:0.75rem;--un-bg-opacity:1;background-color:rgb(243 244 246 / var(--un-bg-opacity));padding-top:0.625rem;padding-bottom:0.625rem;padding-left:1.25rem;padding-right:1.25rem;--un-text-opacity:1;color:rgb(31 41 55 / var(--un-text-opacity));font-weight:500;transition-property:all;transition-timing-function:cubic-bezier(0.4, 0, 0.2, 1);transition-duration:150ms;transition-duration:200ms;}
 .card-base:hover{--un-translate-y:-0.25rem;transform:translateX(var(--un-translate-x)) translateY(var(--un-translate-y)) translateZ(var(--un-translate-z)) rotate(var(--un-rotate)) rotateX(var(--un-rotate-x)) rotateY(var(--un-rotate-y)) rotateZ(var(--un-rotate-z)) skewX(var(--un-skew-x)) skewY(var(--un-skew-y)) scaleX(var(--un-scale-x)) scaleY(var(--un-scale-y)) scaleZ(var(--un-scale-z));--un-shadow:var(--un-shadow-inset) 0 20px 25px -5px var(--un-shadow-color, rgb(0 0 0 / 0.1)),var(--un-shadow-inset) 0 8px 10px -6px var(--un-shadow-color, rgb(0 0 0 / 0.1));box-shadow:var(--un-ring-offset-shadow), var(--un-ring-shadow), var(--un-shadow);}
 .btn-secondary:active{--un-scale-x:0.95;--un-scale-y:0.95;transform:translateX(var(--un-translate-x)) translateY(var(--un-translate-y)) translateZ(var(--un-translate-z)) rotate(var(--un-rotate)) rotateX(var(--un-rotate-x)) rotateY(var(--un-rotate-y)) rotateZ(var(--un-rotate-z)) skewX(var(--un-skew-x)) skewY(var(--un-skew-y)) scaleX(var(--un-scale-x)) scaleY(var(--un-scale-y)) scaleZ(var(--un-scale-z));}
-.card-base{overflow:hidden;border-width:1px;--un-border-opacity:1;border-color:rgb(243 244 246 / var(--un-border-opacity));border-radius:1rem;--un-bg-opacity:1;background-color:rgb(255 255 255 / var(--un-bg-opacity));--un-shadow:var(--un-shadow-inset) 0 1px 2px 0 var(--un-shadow-color, rgb(0 0 0 / 0.05));box-shadow:var(--un-ring-offset-shadow), var(--un-ring-shadow), var(--un-shadow);transition-property:all;transition-timing-function:cubic-bezier(0.4, 0, 0.2, 1);transition-duration:150ms;transition-duration:300ms;}
+.card-base{overflow:hidden;border-width:1px;border-color:rgb(229 231 235 / 0.7);border-radius:1rem;--un-bg-opacity:1;background-color:rgb(255 255 255 / var(--un-bg-opacity));--un-shadow:var(--un-shadow-inset) 0 1px 2px 0 var(--un-shadow-color, rgb(0 0 0 / 0.05));box-shadow:var(--un-ring-offset-shadow), var(--un-ring-shadow), var(--un-shadow);transition-property:all;transition-timing-function:cubic-bezier(0.4, 0, 0.2, 1);transition-duration:150ms;transition-duration:300ms;}
 .dark .btn-secondary{border-color:rgb(55 65 81 / 0.8);--un-bg-opacity:1;background-color:rgb(31 41 55 / var(--un-bg-opacity));--un-text-opacity:1;color:rgb(243 244 246 / var(--un-text-opacity));}
 .dark .card-base{border-color:rgb(55 65 81 / 0.6);background-color:rgb(31 41 55 / 0.9);}
 .btn-secondary:hover{--un-bg-opacity:1;background-color:rgb(229 231 235 / var(--un-bg-opacity));}
